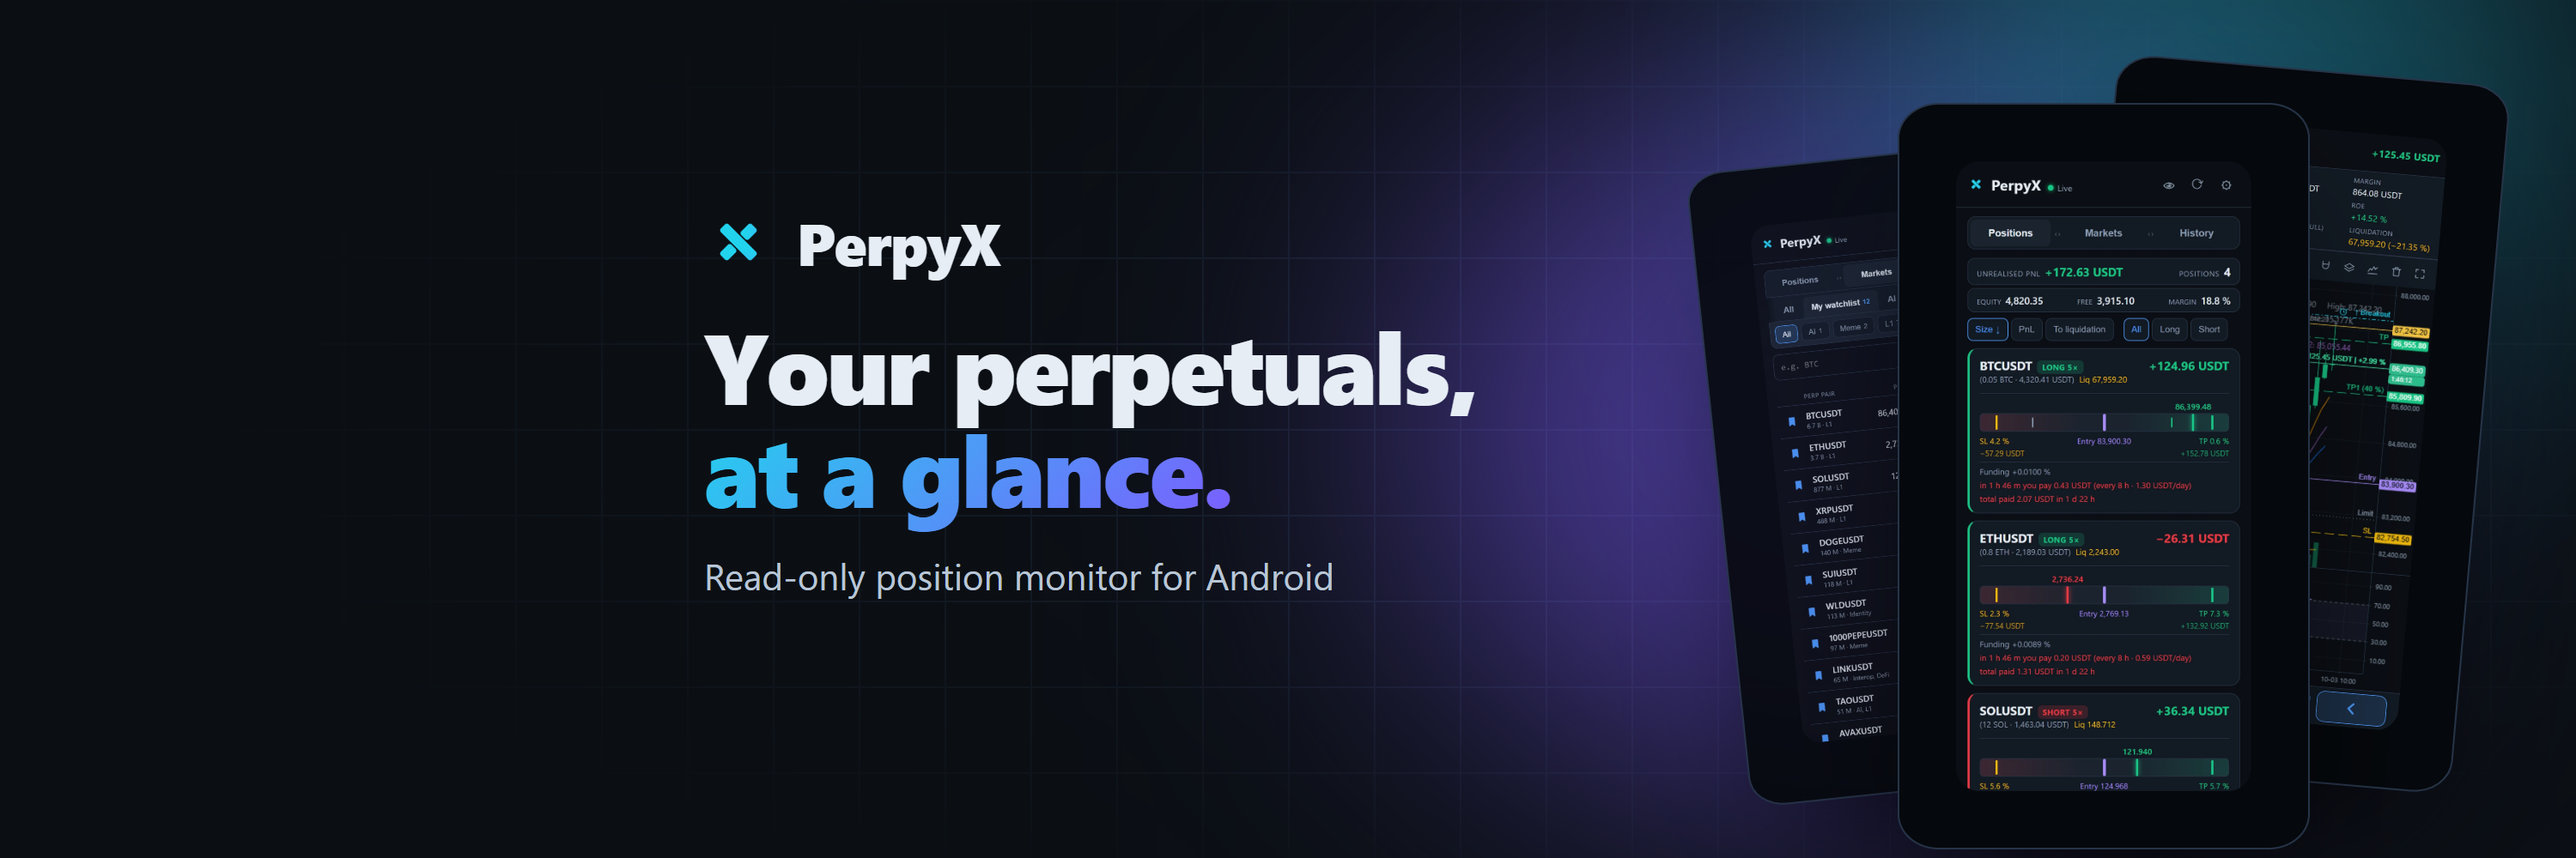
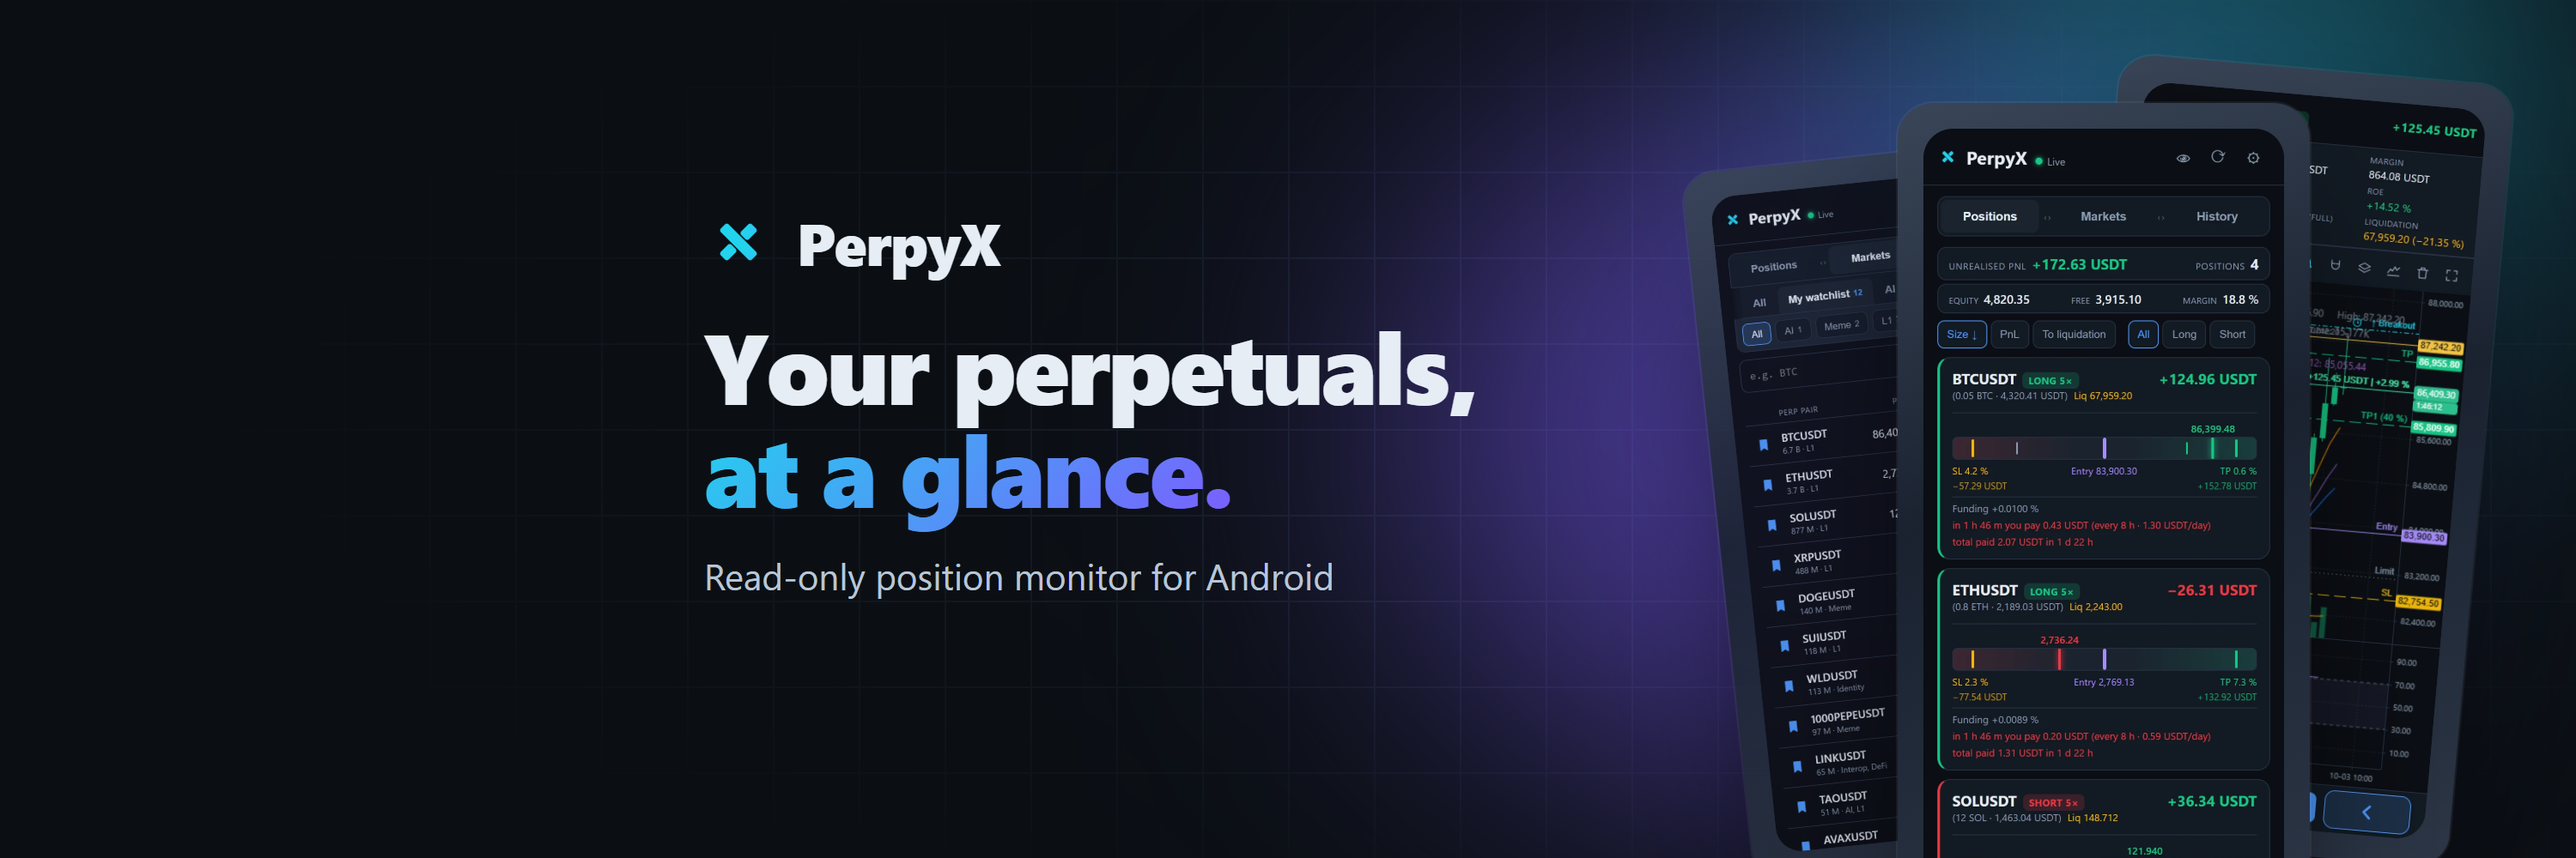
Design X: tenke moderni ramecky telefonu
Claude-Session: https://claude.ai/code/session_015bSMKh62UKs2XyHsFmV9vj

Changed region(s): [[0.651, 0.062, 0.992, 1.0]]

diff --git a/design/x-profil/zahlavi.html b/design/x-profil/zahlavi.html
@@ -32,20 +32,24 @@
   .grad { background: var(--grad); -webkit-background-clip: text; background-clip: text; color: transparent; }
   .znacka { display: flex; align-items: center; gap: 14px; font-weight: 800; letter-spacing: -0.5px; }
   .znacka svg { flex: none; }
+  /* Moderní telefon: tenký světlejší rámeček (kov), displej až k okraji.
+     Tmavé okraje samotné aplikace pak čtou jako displej, ne jako rámeček —
+     s tlustým černým rámem vypadaly telefony o deset let starší. */
   .telefon {
-    position: absolute; background: #05080c; border: 1px solid #263448;
-    border-radius: 10% / 4.7%; padding: 2.2%;
-    box-shadow: 0 40px 90px -30px rgba(0, 0, 0, 0.95);
+    position: absolute; padding: 1%;
+    background: linear-gradient(160deg, #3a4658, #1a2230 45%, #2c3646);
+    border-radius: 9% / 4.2%;
+    box-shadow: 0 0 0 1px rgba(255, 255, 255, 0.06), 0 40px 90px -30px rgba(0, 0, 0, 0.95);
   }
-  .telefon img { display: block; width: 100%; border-radius: 8% / 3.7%; }
-  .fold { position: absolute; background: #05080c; border: 1px solid #263448; border-radius: 4.5% / 3.6%; padding: 1.4%; box-shadow: 0 40px 90px -30px rgba(0,0,0,0.95); }
-  .fold img { display: block; width: 100%; border-radius: 3.4% / 2.7%; }
+  .telefon img { display: block; width: 100%; border-radius: 8.2% / 3.8%; }
+  .fold { position: absolute; padding: 0.7%; background: linear-gradient(160deg, #3a4658, #1a2230 45%, #2c3646); border-radius: 4% / 3.2%; box-shadow: 0 0 0 1px rgba(255,255,255,0.06), 0 40px 90px -30px rgba(0,0,0,0.95); }
+  .fold img { display: block; width: 100%; border-radius: 3.5% / 2.8%; }
   .cip { display: inline-flex; align-items: center; gap: 8px; padding: 7px 14px; border-radius: 999px; border: 1px solid var(--line); background: rgba(17, 24, 35, 0.8); color: #c3cfdd; font-size: 17px; font-weight: 600; }
   .cip.ziva { border-color: rgba(22, 199, 132, 0.6); color: var(--text); }
   .cip.ziva::before { content: ''; width: 8px; height: 8px; border-radius: 50%; background: var(--green); box-shadow: 0 0 10px var(--green); }
   .cip.brzy { border-style: dashed; }
   /* Vlastní snímek z telefonu: ořízne stavovou a navigační lištu Androidu. */
-  .orez { overflow: hidden; border-radius: 8% / 3.9%; aspect-ratio: 904 / 2000; }
+  .orez { overflow: hidden; border-radius: 8.2% / 3.8%; aspect-ratio: 904 / 2000; background: #0b0f14; }
   .orez img { display: block; width: 100%; border-radius: 0; transform: translateY(-4.6%); }
   .popis { color: var(--muted); font-size: 15px; letter-spacing: 1.4px; text-transform: uppercase; font-weight: 700; }
 </style>
